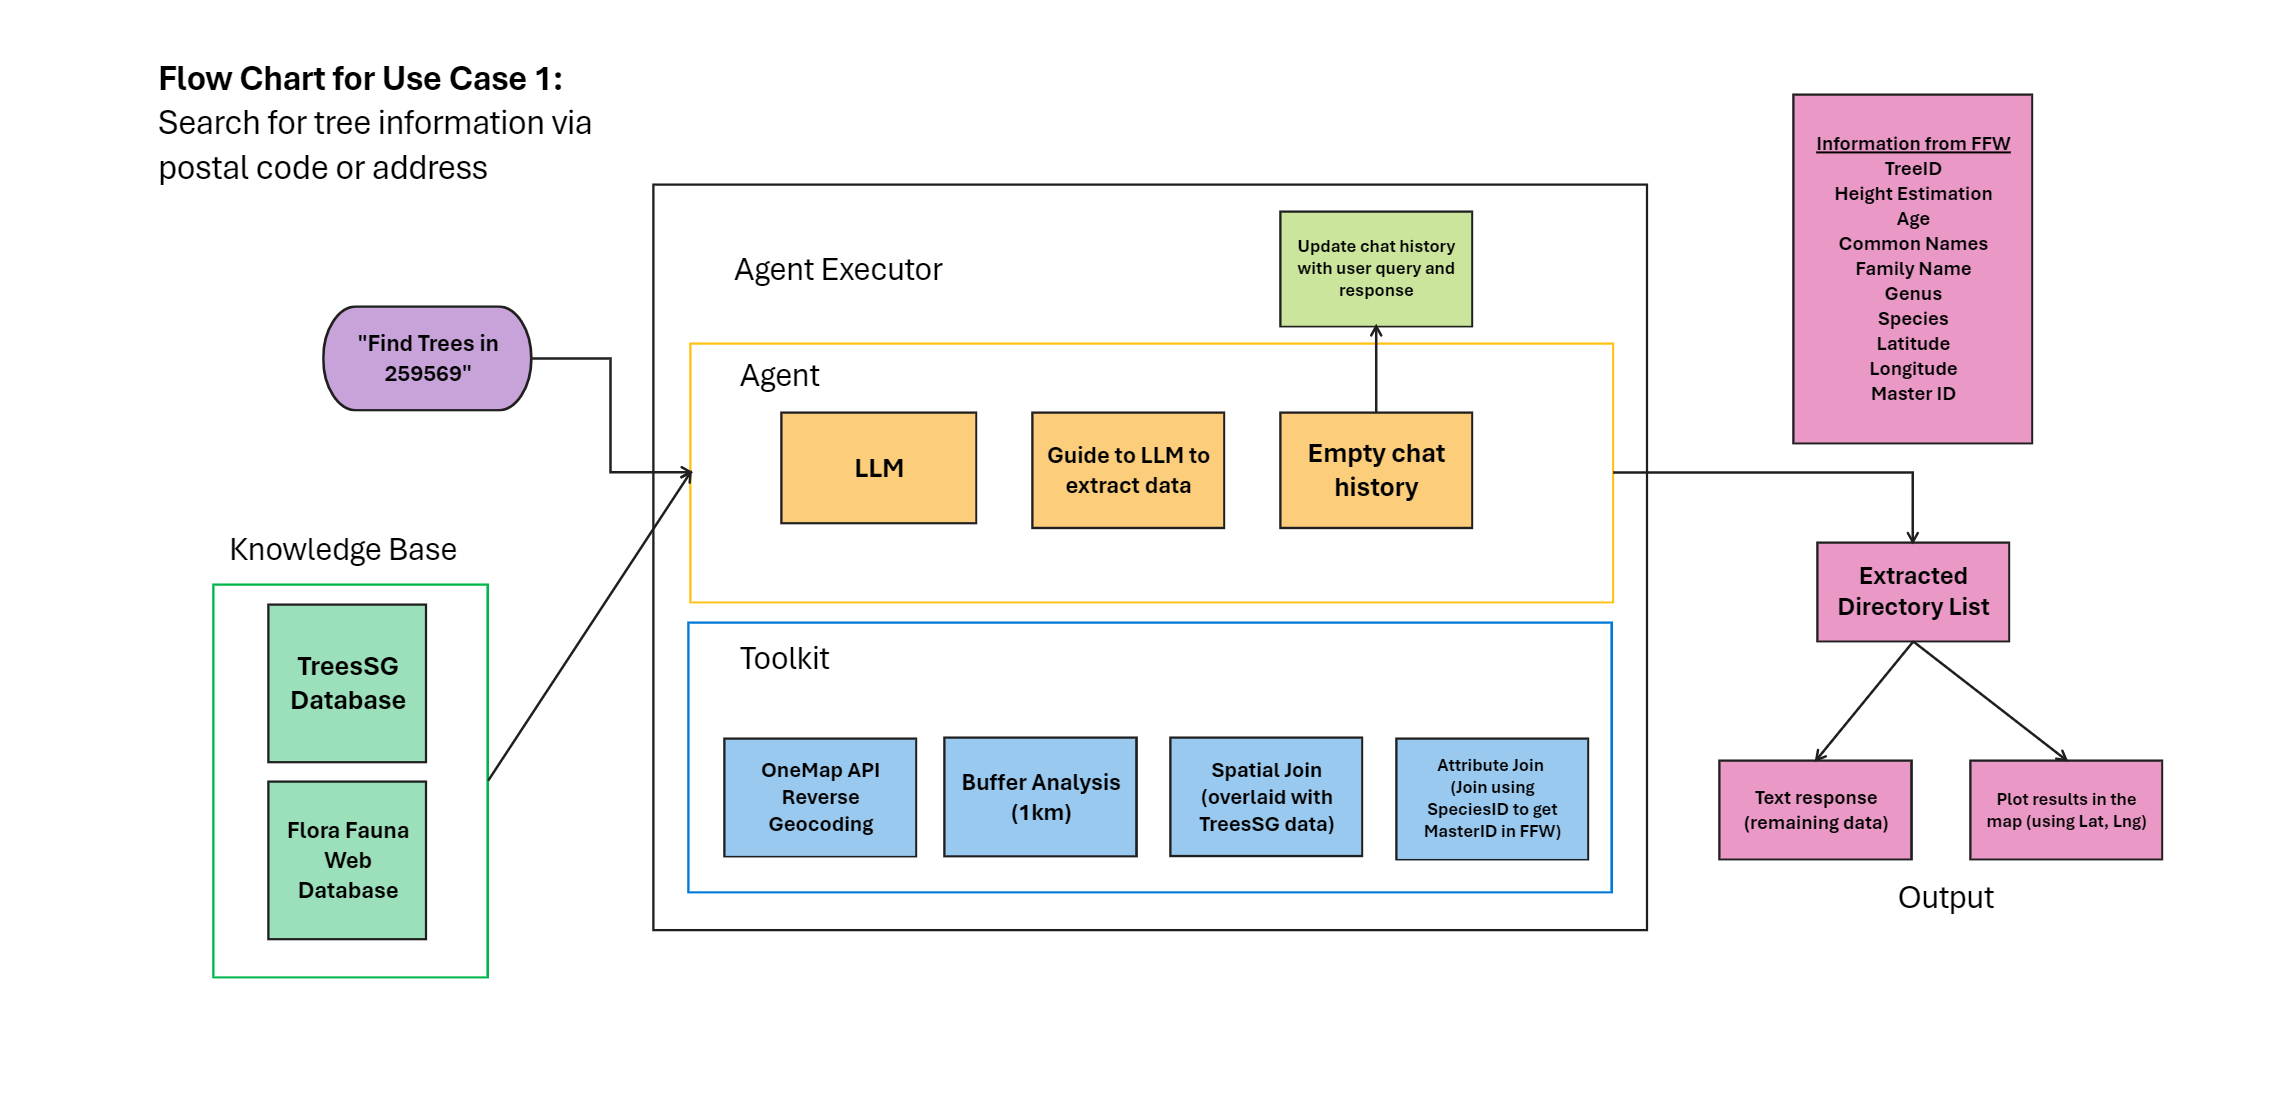
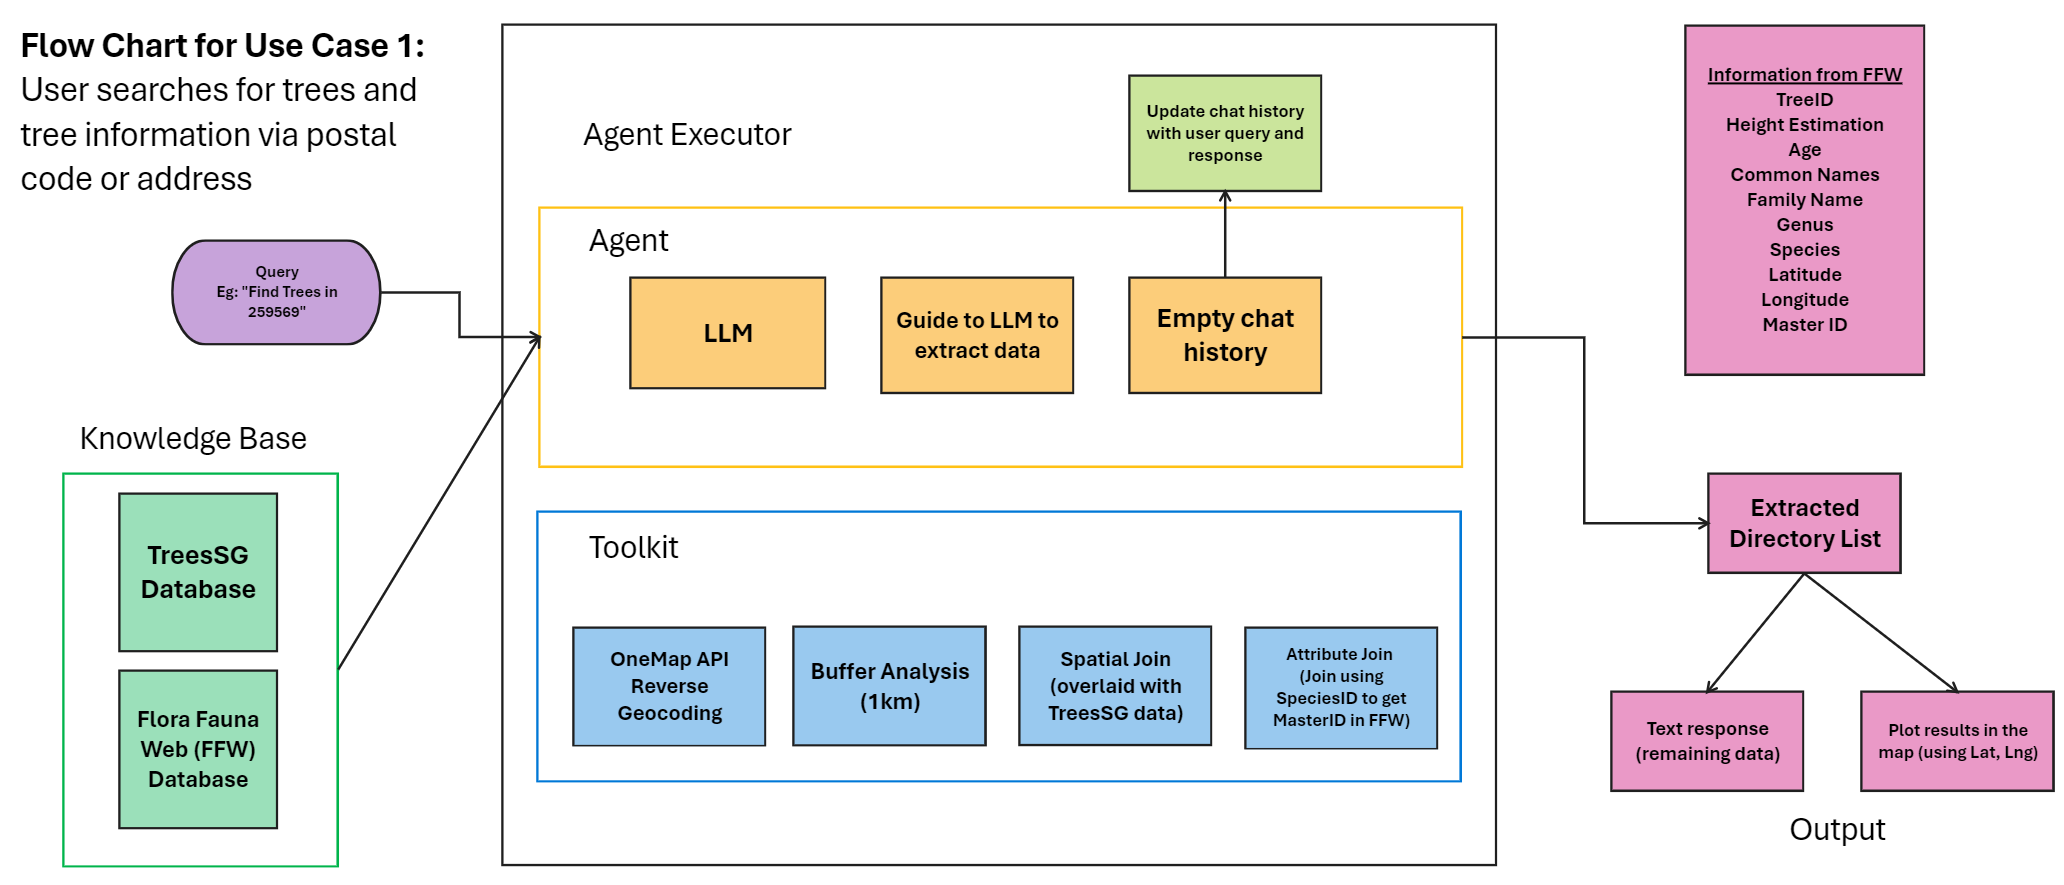
second update on about and methodology page

diff --git a/pages/3_View_Methodology.py b/pages/3_View_Methodology.py
@@ -26,17 +26,17 @@ def methodology_page():
 
     st.header("LLM Integration")
     st.write("""
-    We utilize state-of-the-art LLM to process user queries. The models are 
+    We utilize state-of-the-art LLMs i.e GPT-4o mini to process user queries. The models are 
     fine-tuned for Singapore-specific tree and geographical data, enhancing their accuracy and reliability. 
     Retrieval-Augmented Generation (RAG) is employed to further improve model performance.
     """)
 
     st.header("Geospatial Processing")
     st.write("""
-    Efficient prompts for spatial queries and calculations are implemented to optimize response times, 
-    even with large datasets. The chatbot can handle a wide range of user queries in natural language 
-    and display results on an interactive map interface. This includes techniques such as reverse geocoding, 
-    buffer and overlay spatial analysis.
+    Efficient prompts for spatial queries and geospatial toolkit (OneMap API reverse geocoding, 
+    buffer analysis, spatial join and attribute join) are implemented to optimize response 
+    times, even with large datasets. The chatbot can handle user queries in natural language 
+    and display results on an interactive map interface.
     """)
 
     st.header("User Interface")
@@ -56,40 +56,43 @@ def methodology_page():
     st.header("Flowcharts")
 
     # Placeholder for Chat with Information flowchart
-    st.image("./data/generic.png", caption="Overview Flowchart")
+    st.image("./data/generic.png", caption="Generic flowchart")
 
     st.write("""
     The application has two main use cases:
-    1. Chat with information
-    2. Intelligent search
+    1. User searches for trees and tree information via postal code or address
+    2. After query 1, user asks for more information on a particular tree species
 
-    Each use case is illustrated with its own flowchart to depict the process flow.
+    Each use case is illustrated with its own flowchart to depict the process flow. Users can type "exit" 
+    to start a new query or continue with the existing conversation.
     """)
 
-    st.subheader("Chat with Information Flowchart")
+
+    st.subheader("Use Case 1: Tree Search by Location")
     st.write("""
     This flowchart illustrates the process of:
-    1. Users inputting queries
-    2. The LLM processing the queries
-    3. The chatbot providing detailed tree information
+    1. User inputs a query for trees in a specific area using postal code or address.
+    2. The Large Language Model (LLM) processes the query to understand the intent and extract relevant information.
+    3. The LLM activates a geospatial processing toolkit to search the TreesSG database for matching trees.
+    4. The system retrieves corresponding information from the Flora Fauna Web (FFW) database.
+    5. The application displays results by plotting tree locations on an interactive map and generating a text response.
     """)
-    # Placeholder for Chat with Information flowchart
-    st.image("./data/case1.png", caption="Chat with Information Flowchart")
+    # Placeholder for Tree Search by Location flowchart
+    st.image("./data/case1.png", caption="Tree Search by Location Flowchart")
 
-    st.subheader("Intelligent Search Flowchart")
+    st.subheader("Use Case 2: Detailed Tree Species Information")
     st.write("""
     This flowchart illustrates the process of:
-    1. Users querying an area
-    2. The LLM processing the spatial data
-    3. The chatbot displaying area-based tree statistics on an interactive map
+    1. User requests more information on a particular tree species identified in Use Case 1.
+    2. The system constructs a web URL for the specific tree species on the FFW website.
+    3. Using Retrieval-Augmented Generation (RAG):
+       a) The system accesses pre-loaded and embedded webpages from the FFW site, stored in a vector database.
+       b) The LLM uses the query to search the vector database for relevant information.
+       c) The system applies Maximum Marginal Relevance (MMR) to retrieve or summarize pertinent information.
+    4. The chatbot presents the retrieved or summarized information to the user.
     """)
-    # Placeholder for Intelligent Search flowchart
-    st.image("./data/case2.png", caption="Intelligent Search Flowchart")
-
-    st.write("""
-    By implementing these methodologies, TreeQuery AI aims to enhance the efficiency and effectiveness 
-    of urban forest management, contributing to better conservation and research efforts in Singapore.
-    """)
+    # Placeholder for Detailed Tree Species Information flowchart
+    st.image("./data/case2.png", caption="Detailed Tree Species Information Flowchart")
 
     with st.expander("Disclaimer"):
         st.write(

diff --git a/pages/2_About_Us.py b/pages/2_About_Us.py
@@ -25,6 +25,8 @@ def about_us_page():
     - Risking oversight of important trends or issues
     - Hindering new or less experienced staff in accessing and interpreting data effectively
     """)
+    st.write("How can we develop an AI-powered system to streamline access, analysis, and visualisation of tree data from the TreesSG database, thereby enhancing the efficiency and effectiveness of NParks' research and conservation efforts while reducing time and resources spent on manually searching for data for analysis?")
+
 
     st.header("Our Solution")
     st.write("""
@@ -33,13 +35,21 @@ def about_us_page():
 
     st.subheader("Project Scope")
     st.write("""
-    Project Scope
+    - It aims to create a user-friendly interface that can process natural language queries, retrieve comprehensive tree data, and display results on an interactive map through the integration of advanced technologies including generative AI, Retrieval-Augmented Generation (RAG), and geospatial analysis.
+    - The scope includes developing capabilities for both NParks staff and public users, covering aspects such as tree identification, location mapping, and data analysis for research and conservation purposes.
     """)
 
-    st.subheader("Objectives")
+    st.header("Objectives")
     st.write("""
-    Objectives
+    1. Develop a chatbot that can accurately interpret and respond to natural language queries about trees
+    2. Create an efficient system for retrieving and visualising tree data from existing databases
+    3. Reduce the time and resources spent on manual data searches by NParks staff
+    4. Enhance the capacity for data-driven research and decision-making in urban forest management
+    5. Improve public access to information about local trees and green spaces
+    6. Support Singapore's vision as a City in Nature by fostering greater appreciation and understanding of the urban forest
     """)
+    
+
     st.subheader("Data sources")
     st.write("""
     - TreesSG database ( csv file)

diff --git a/main.py b/main.py
@@ -34,7 +34,9 @@ def main():
     )
 # endregion <--------- Streamlit App Configuration --------->
     st.title(APP_TITLE)
-    st.caption(APP_SUB_TITLE)
+    #st.caption(APP_SUB_TITLE)
+
+    st.subheader(APP_SUB_TITLE)
 
     # row1_col1, row1_col2 = st.columns([2, 1.3])
     # width = None
@@ -51,12 +53,13 @@ def main():
 
     #display prompt
     # with row1_col2:
+    st.write("Type exit to discontinue and start a new one")
 
-    label = "Type exit to discontinue and start a new one "
+    # label = "Type exit to discontinue and start a new one "
 
-    s = f"<p style='font-size:16px;'>{label}</p>"
+    # s = f"<p style='font-size:16px;'>{label}</p>"
 
-    st.markdown(s, unsafe_allow_html=True)
+    # st.markdown(s, unsafe_allow_html=True)
 
     # Initialize chat history
     if "messages" not in st.session_state:
